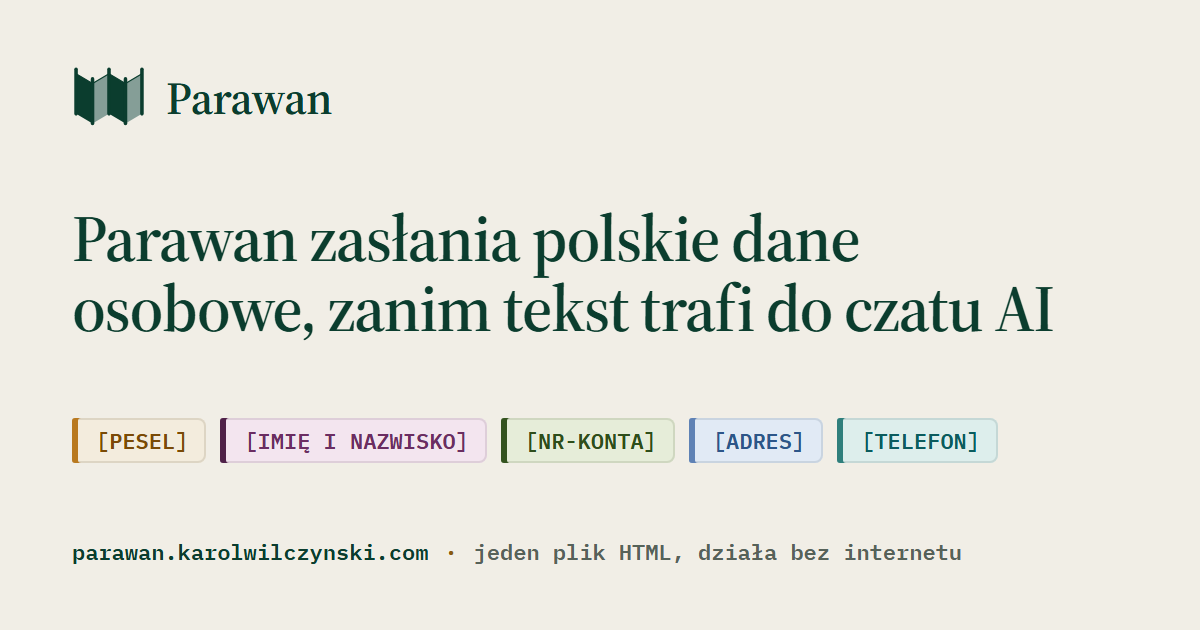
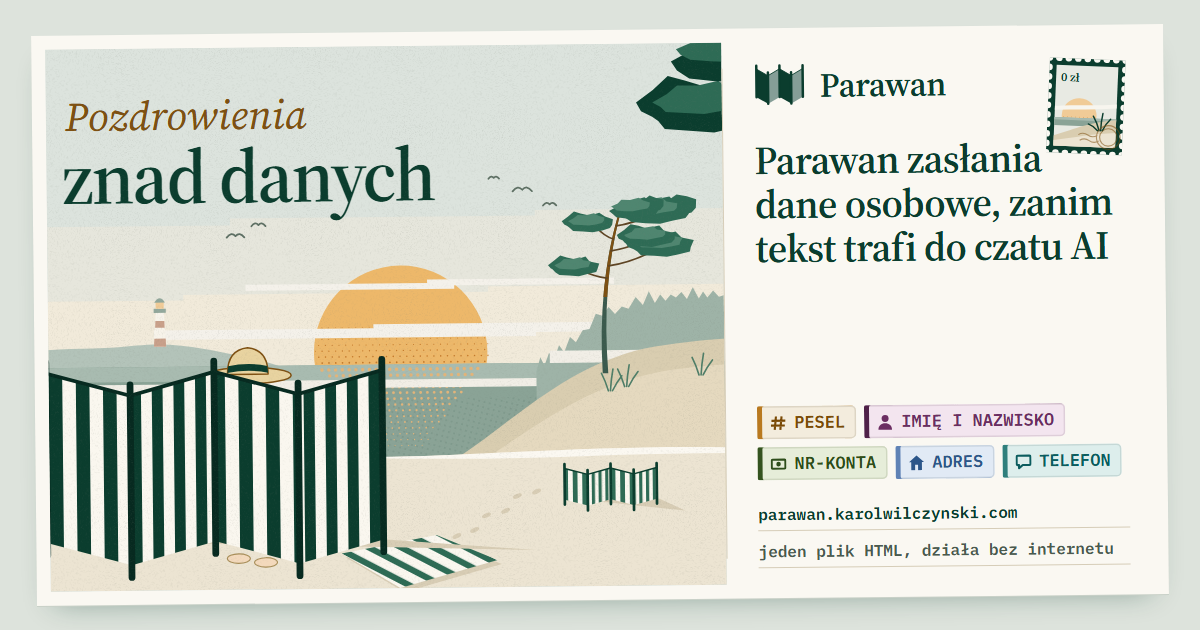
feat: obrazek podglądu linku jako pocztówka z nowym hasłem
Generator og.png składa kartę z przodu pocztówki i znaczka z ilustracje.ts,
a hasło bierze z h1 strony. Znaczniki mają znaki kategorii z palety „u”.
og:title zgodny z h1, og:image:alt opisuje nowy obrazek.

diff --git a/apps/landing/index.html b/apps/landing/index.html
@@ -13,7 +13,7 @@
       content="Parawan zasłania polskie dane osobowe (PESEL, NIP, numer KSeF, e-mail, adres i 24 innych typów), zanim tekst trafi do czatu AI. Jeden plik HTML, działa w przeglądarce bez internetu."
     />
     <link rel="canonical" href="https://parawan.karolwilczynski.com/" />
-    <meta property="og:title" content="Parawan zasłania polskie dane osobowe, zanim tekst trafi do czatu AI" />
+    <meta property="og:title" content="Parawan zasłania dane osobowe, zanim tekst trafi do czatu AI" />
     <meta property="og:description" content="Pismo po przejściu przez Parawan: PESEL, nazwiska, adresy i numery kont pod znacznikami, przepisy i kwoty na miejscu. Jeden plik HTML, który działa bez internetu." />
     <meta property="og:type" content="website" />
     <meta property="og:url" content="https://parawan.karolwilczynski.com/" />
@@ -22,7 +22,7 @@
     <meta property="og:image" content="https://parawan.karolwilczynski.com/og.png" />
     <meta property="og:image:width" content="1200" />
     <meta property="og:image:height" content="630" />
-    <meta property="og:image:alt" content="Znak parawanu i napis Parawan. Hasło: Parawan zasłania polskie dane osobowe, zanim tekst trafi do czatu AI. Pod nim znaczniki [PESEL], [IMIĘ I NAZWISKO], [NR-KONTA], [ADRES] i [TELEFON]." />
+    <meta property="og:image:alt" content="Pocztówka. Na przodzie poranek nad morzem: parawan w zielono-białe pasy, słońce nad wodą, sosny na wydmie i napis „Pozdrowienia znad danych”. Na odwrocie znak i nazwa Parawan, hasło „Parawan zasłania dane osobowe, zanim tekst trafi do czatu AI” i znaczniki PESEL, IMIĘ I NAZWISKO, NR-KONTA, ADRES i TELEFON." />
     <meta name="twitter:card" content="summary_large_image" />
     <meta name="twitter:image" content="https://parawan.karolwilczynski.com/og.png" />
     <!-- Dane strukturalne dla wyszukiwarek: inline, strona niczego nie pobiera. -->

diff --git a/CHANGELOG.md b/CHANGELOG.md
@@ -25,7 +25,9 @@ działają na GitHubie od chwili wypchnięcia tagów.
   Obok „Jak sprawdzić” stoi latarnia w łuku okna, a obok pobierania stempel pocztowy. Za pierwszym
   razem snop latarni obraca się od morza, a stempel spada na papier. Wynik pomiaru ma dopisek,
   że to syntetyczne zdania, i wynik na pismach odłożonych do kontroli. W trybie wysokiego kontrastu
-  przyciski i przełącznik „Wynik / Porównanie” mają ramki.
+  przyciski i przełącznik „Wynik / Porównanie” mają ramki. Obrazek podglądu linku (na przykład
+  na LinkedInie i w komunikatorach) to ta sama pocztówka: z przodu plaża z parawanem, na odwrocie
+  nowe hasło i znaczniki ze znakami kategorii.
 - **Nowe kolory znaczników w Parawan.html.** Znaczniki mają barwy z tej samej nadmorskiej palety
   co strona: osoby śliwkowe, kontakt morski, identyfikatory ochrowe, finanse sosnowe, adres
   niebieski. Tło znacznika jest pełne, a z lewej stoi pasek w barwie kategorii, więc kategorie
